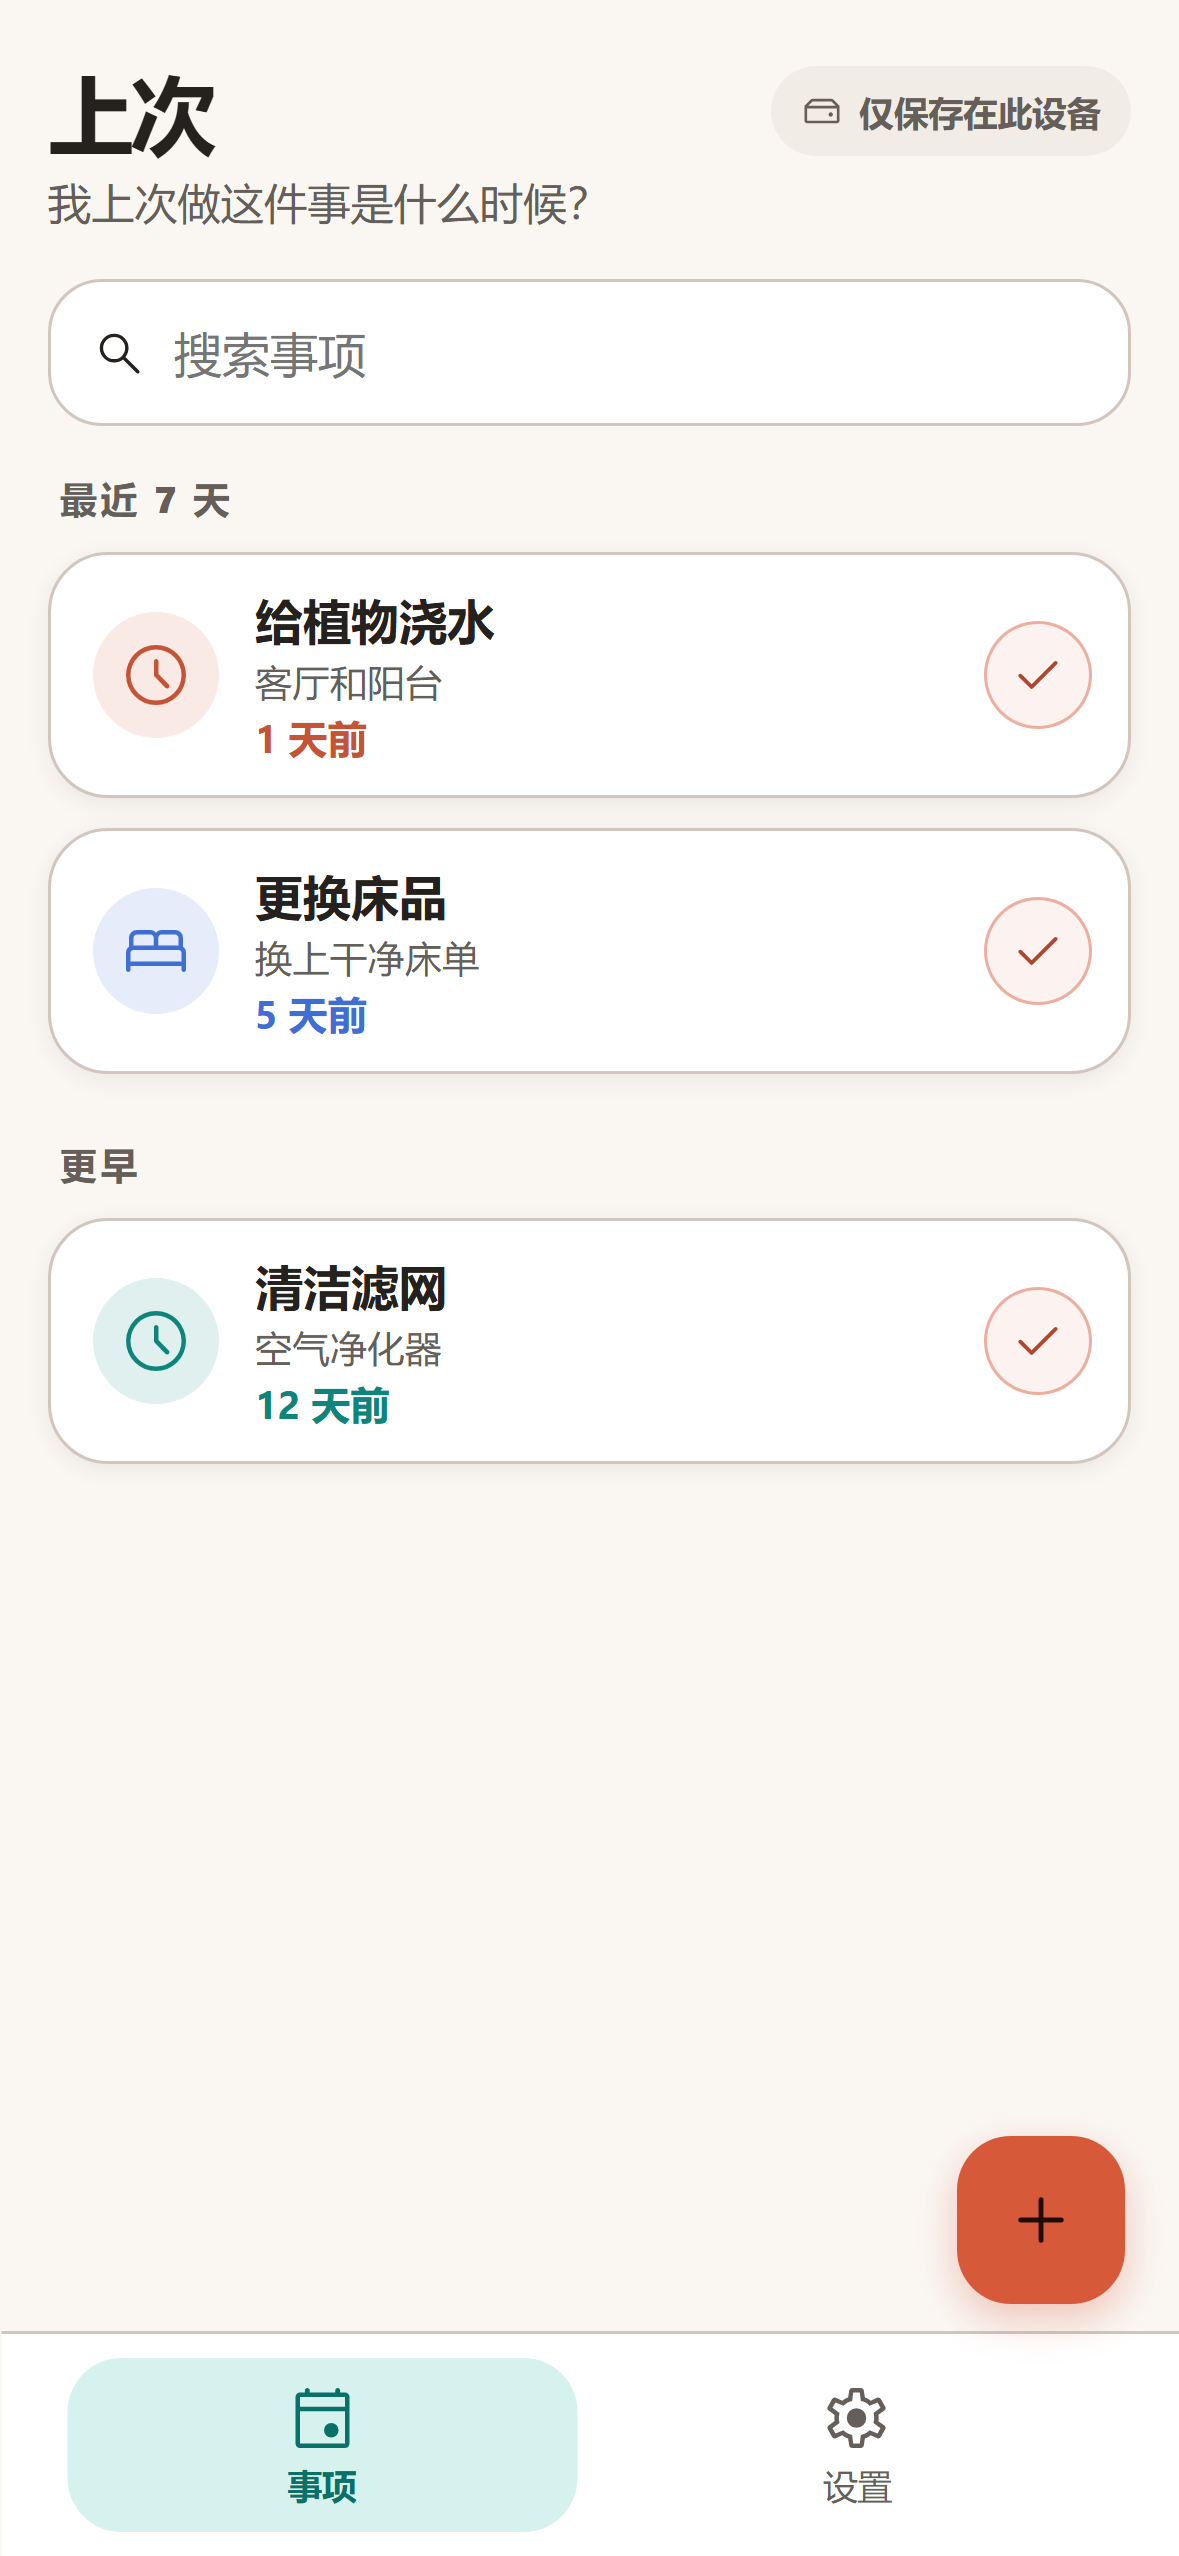
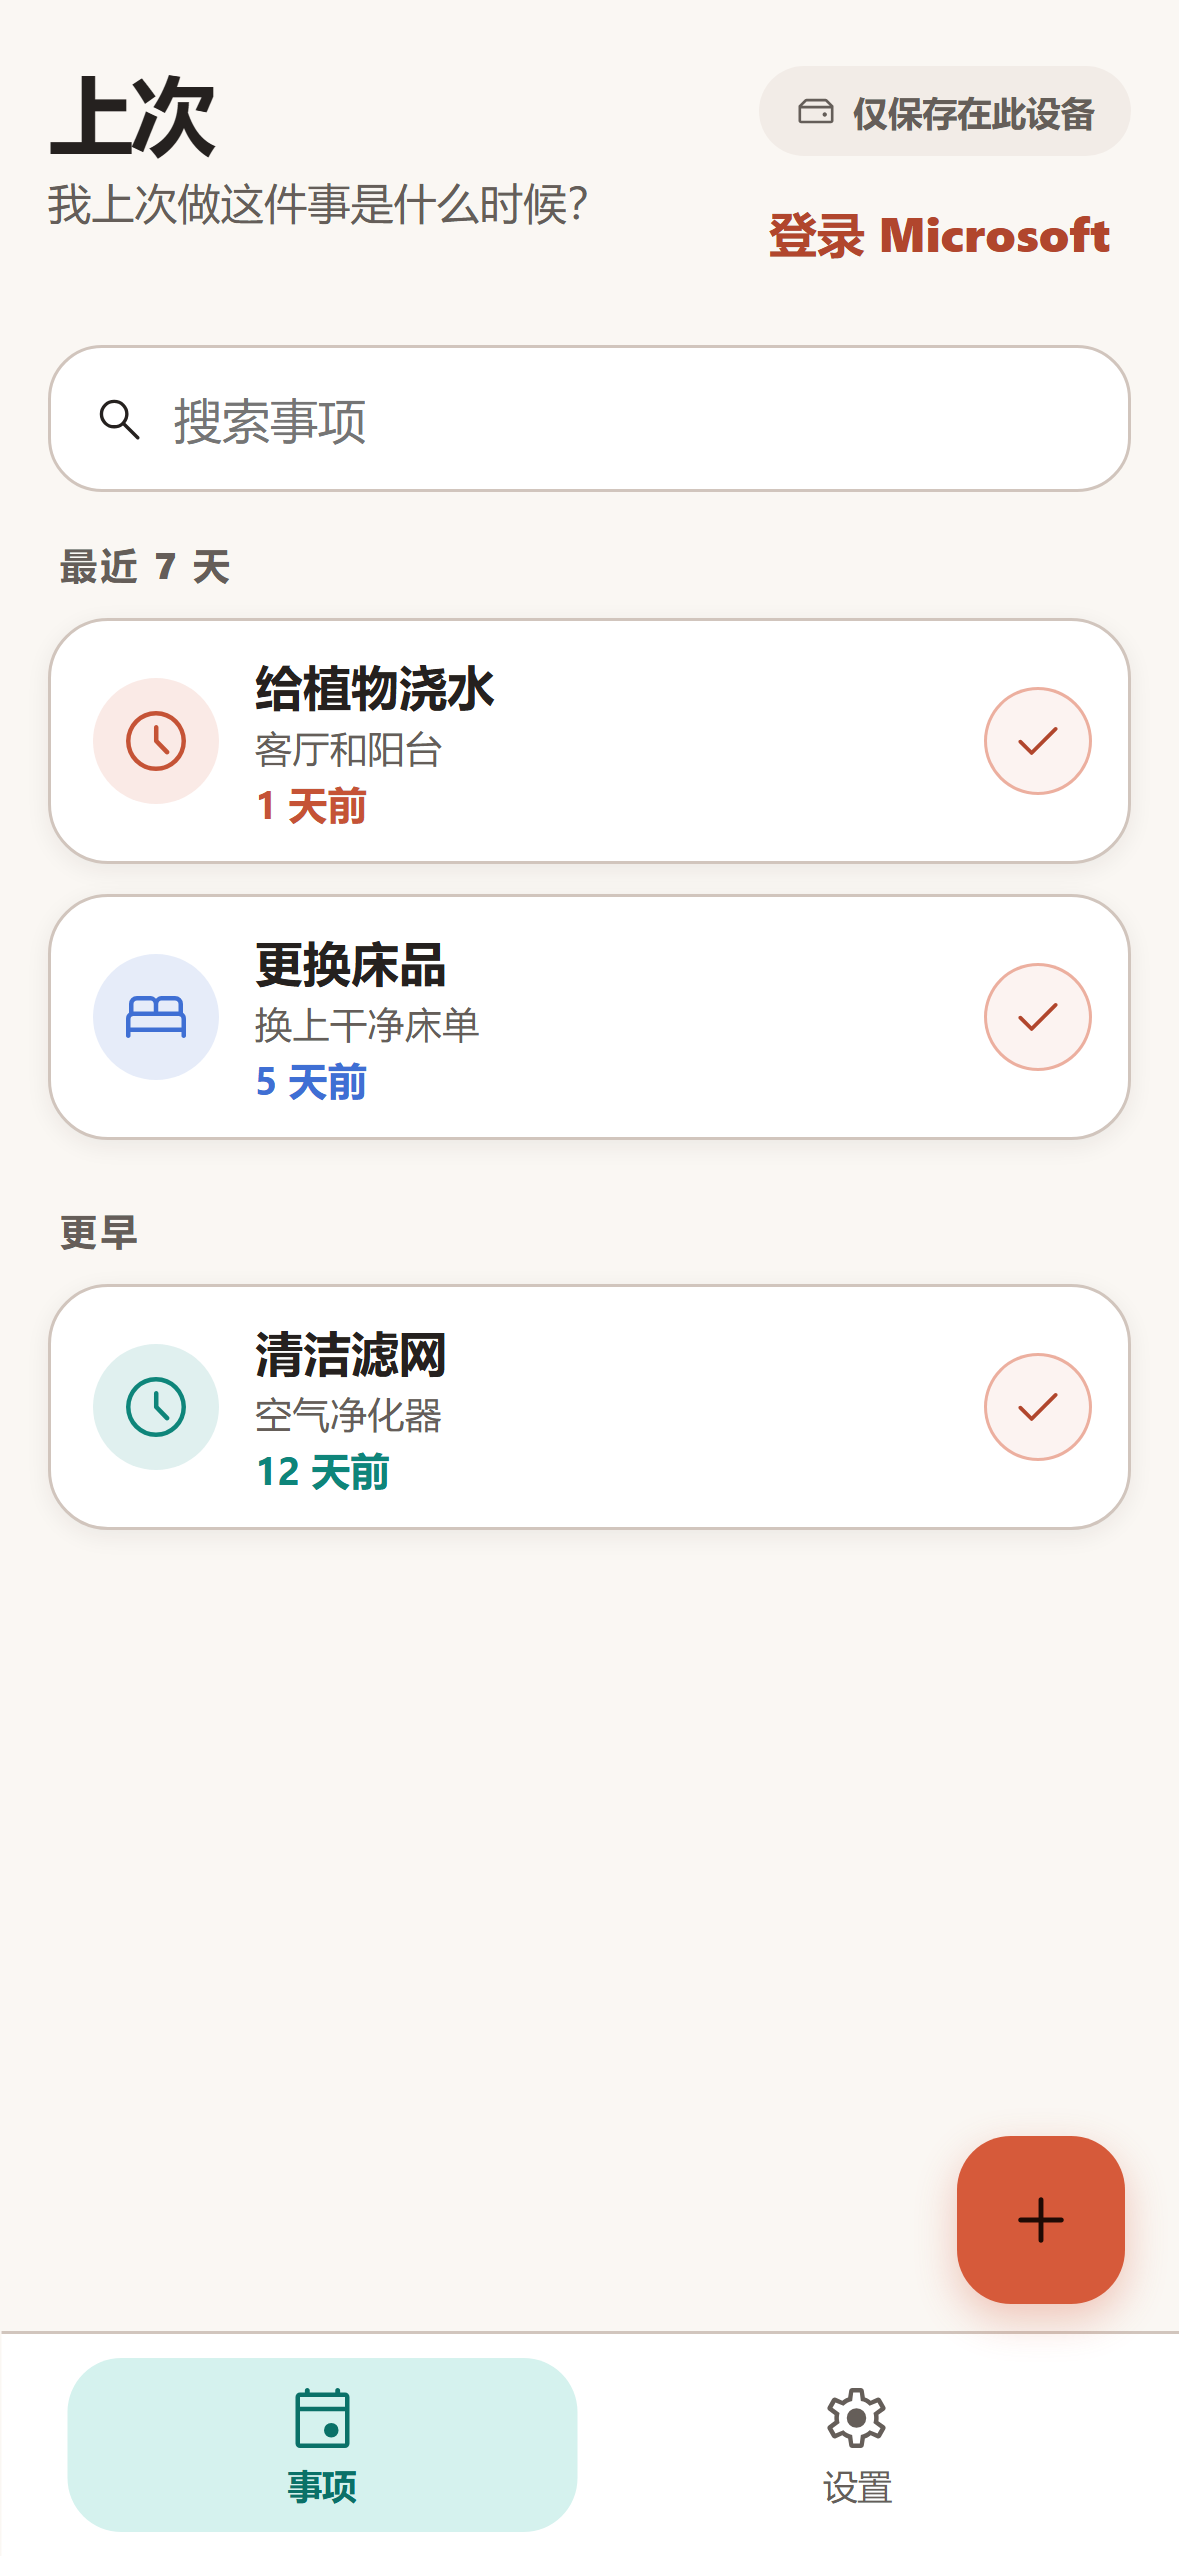
Fix localized README screenshots

diff --git a/e2e/readme-screenshots.capture.ts b/e2e/readme-screenshots.capture.ts
@@ -81,7 +81,7 @@ for (const locale of screenshotLocales) {
     await page.screenshot({ path: outputPath('home-light', locale) })
 
     await seed(page, locale, 'dark')
-    await page.getByRole('button', { name: locale === 'zh-CN' ? '添加事项' : 'Add item' }).click()
+    await page.getByRole('button', { name: locale === 'zh-CN' ? '添加事项' : 'Add item', exact: true }).first().click()
     await page.getByLabel(locale === 'zh-CN' ? '名称' : 'Name').fill(locale === 'zh-CN' ? '清洗咖啡机' : 'Clean the coffee machine')
     await page.getByLabel(locale === 'zh-CN' ? '备注' : 'Note').fill(locale === 'zh-CN' ? '包括冲煮头和接水盘' : 'Group head and drip tray')
     await page.screenshot({ path: outputPath('editor-dark', locale) })

diff --git a/playwright.screenshots.config.ts b/playwright.screenshots.config.ts
@@ -12,6 +12,9 @@ export default defineConfig({
   webServer: {
     command: 'npm run dev -- --host 127.0.0.1 --port 4173',
     url: 'http://127.0.0.1:4173',
-    reuseExistingServer: false
+    reuseExistingServer: false,
+    env: {
+      VITE_MS_CLIENT_ID: '00000000-0000-0000-0000-000000000000'
+    }
   }
 })
